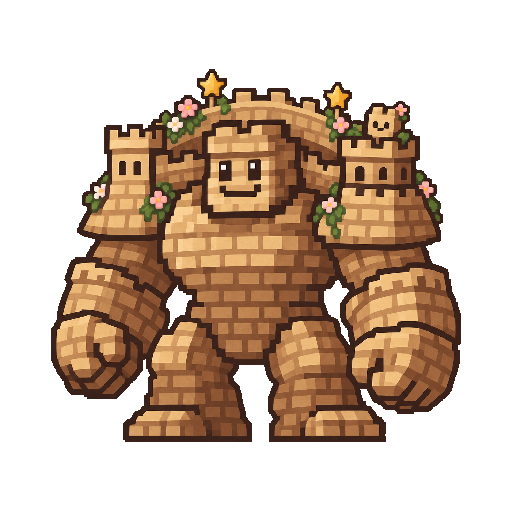
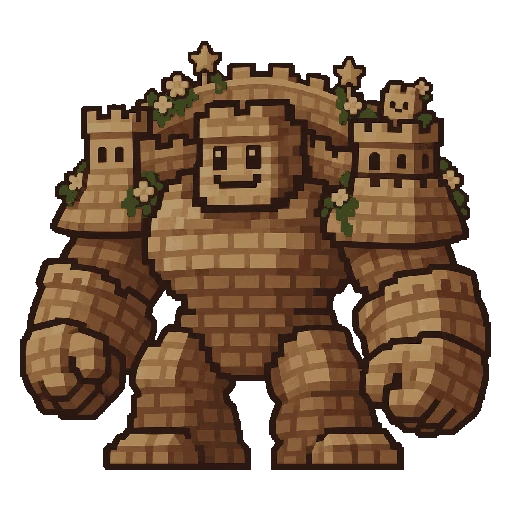
fix: evolved pictures matched to the originals (size, brightness, flat colours, file weight)
ユーザーの指摘「サイズは大丈夫？ ゴトモン独特なレトロな感じが抜けている」を測って直した。
- 大きさ：取り込みで 全部を枠の80%に そろえていたため、元の絵（74〜100%、多くは約90%）より 8ひきが 小さく見えていた
  （進化したのに 小さくなる）。→ 元の絵が 枠に しめる大きさの 1.05倍（98%まで）に。
- レトロ感：ドットの大きさは 元と ほぼ同じだったが、Codex の絵は どれも 明るく（明るさ +0.04〜+0.24）、なめらかな
  グラデーションと 黒い ふちどりで 今っぽかった。→ 明るさを 元の絵と同じに そろえ、48色の 平らな色に（ディザなし）。
- 重さ：lossless WebP で 85〜205KB（元の絵は 中央値 25KB）。→ lossy（quality 88）で 14〜69KB、10まいで 1.6MB→448KB。
- 次から Codex にも：見本と同じ明るさ・くすんだ色・少ない色数・平らな かげ・ふちどりは見本なみ・新しい部分も見本の色から（prompt.tpl.txt）。
- テスト：進化の絵は 100KB 未満（元の絵と同じ 軽さ）を確かめる。

確かめたこと
- 取り込みの結果（10ぴき）：明るさは 元と 0.01 以内で一致、枠に しめる大きさは 元以上（元が 1.00 の2ひきは 0.98）。
- 元の絵と並べて目で確認：くすみと 暗さが そろい、レトロに近づいた。ビワッシーは 元が とても暗いので あやしい光も 弱まった。
- gotomon-minigames 431件 合格、ビルドOK。

diff --git a/scripts/evolution/import-images.py b/scripts/evolution/import-images.py
@@ -1,32 +1,52 @@
-# Checks Codex's evolved pictures and puts them in the game as 512x512 WebP (transparent background).
+# Checks Codex's evolved pictures and puts them in the game as 512x512 WebP (transparent background),
+# matched to the original picture so the Gotomon keep their retro look:
+# - size: as much of the frame as the original fills, and a little more (it has grown), never past 98%;
+# - tone: the same mean brightness as the original (Codex's pictures come out brighter), and 48 flat
+#   colours (no smooth gradients), as the originals have;
+# - file: lossy WebP like the originals (about 15-60 KB instead of 100-200 KB).
 # Reads <outDir>/<id>/<id>_evo.png for every target in targets.json and writes
 # public/assets/images/monsters/evo/<id>.webp. Nothing is overwritten unless --force.
 # A picture whose corners are not transparent is reported and skipped (fix it in Codex, then run again).
 # usage: python scripts/evolution/import-images.py <outDir> [--force]
-import json, sys
+import json, statistics, sys
 from pathlib import Path
-from PIL import Image
+from PIL import Image, ImageEnhance
 
+COLOURS, GROWTH, MAX_FILL, QUALITY = 48, 1.05, 0.98, 88
 out_dir = Path(sys.argv[1]); force = '--force' in sys.argv
+full = Path('public/assets/images/monsters/full')
 dest = Path('public/assets/images/monsters/evo'); dest.mkdir(parents=True, exist_ok=True)
 targets = json.loads(Path('scripts/evolution/targets.json').read_text(encoding='utf-8'))
+
+def brightness(image):
+    dots = [p for p in image.get_flattened_data() if p[3] > 128][::7]
+    return statistics.mean(max(r, g, b) / 255 for r, g, b, _ in dots)
+
+def fill(image):
+    box = image.getbbox(); return max(box[2] - box[0], box[3] - box[1]) / image.width
+
 for target in targets:
     gid = target['id']; src = out_dir / gid / f'{gid}_evo.png'; to = dest / f'{gid}.webp'
     if not src.exists(): print(f'{gid}: no picture yet'); continue
     if to.exists() and not force: print(f'{gid}: already in the game (use --force to replace)'); continue
+    original = Image.open(next(full.glob(f'*/{gid}.webp'))).convert('RGBA')
     image = Image.open(src).convert('RGBA'); w, h = image.size
     # Generated pictures come with alpha like 253: make every dot fully solid or fully clear, as pixel art is.
     image.putalpha(image.getchannel('A').point(lambda a: 255 if a >= 128 else 0))
     corners = [image.getpixel(p)[3] for p in [(0, 0), (w - 1, 0), (0, h - 1), (w - 1, h - 1)]]
     if max(corners) > 10: print(f'{gid}: SKIPPED, the background is not transparent (corners alpha {corners}), {w}x{h}'); continue
-    # Fit into 512x512 with the 10% margin the prompt asks for, keeping the dots sharp.
-    box = image.getbbox() or (0, 0, w, h); body = image.crop(box)
-    scale = min(410 / body.width, 410 / body.height)
+    body = image.crop(image.getbbox() or (0, 0, w, h))
+    side = round(512 * min(MAX_FILL, fill(original) * GROWTH)); scale = side / max(body.size)
     body = body.resize((max(1, round(body.width * scale)), max(1, round(body.height * scale))), Image.NEAREST)
+    alpha, rgb = body.getchannel('A'), body.convert('RGB')
+    rgb = ImageEnhance.Brightness(rgb).enhance(min(1.0, brightness(original) / brightness(body)))
+    rgb = rgb.quantize(COLOURS, method=Image.Quantize.MEDIANCUT, dither=Image.Dither.NONE).convert('RGB')
+    body = rgb.convert('RGBA'); body.putalpha(alpha)
     canvas = Image.new('RGBA', (512, 512), (0, 0, 0, 0))
     canvas.paste(body, ((512 - body.width) // 2, (512 - body.height) // 2), body)
-    canvas.save(to, 'WEBP', lossless=True)
-    print(f'{gid}: imported from {w}x{h} -> {to} ({to.stat().st_size // 1024} KB)')
+    canvas.save(to, 'WEBP', quality=QUALITY, method=6)
+    print(f'{gid}: imported from {w}x{h} -> {to} ({to.stat().st_size // 1024} KB, fill {fill(canvas):.2f} vs {fill(original):.2f}, '
+          f'brightness {brightness(canvas):.2f} vs {brightness(original):.2f})')
 
 # The game's list of Gotomon with an evolved picture: every WebP now in the evo folder.
 ids = sorted(path.stem for path in dest.glob('*.webp'))

diff --git a/scripts/evolution/README.md b/scripts/evolution/README.md
@@ -12,7 +12,7 @@
    Codex の答えは `<回>/<id>/codex.log`。
 3. 目で確かめる（元の絵と並べた シート）
    `python scripts/evolution/compare.py C:/kanji-evo/<回> <シート.png> <id> ...`
-4. ゲームに入れる（背景が透明か確かめ、512x512 の WebP に そろえて `public/assets/images/monsters/evo/<id>.webp`、`evolvedIds.js` を作りなおす）
+4. ゲームに入れる（背景が透明か確かめ、元の絵に そろえる：枠に しめる大きさ＝元の1.05倍・明るさ＝元と同じ・48色・lossy WebP。512x512 で `public/assets/images/monsters/evo/<id>.webp`、`evolvedIds.js` を作りなおす）
    `python scripts/evolution/import-images.py C:/kanji-evo/<回>`（入れかえるときは `--force`）
 
 Claude からは 2. の形の コマンドだけ 許可してある（`.claude/settings.local.json`）。パイプや `cd` を つけると 許可の形から外れる。
